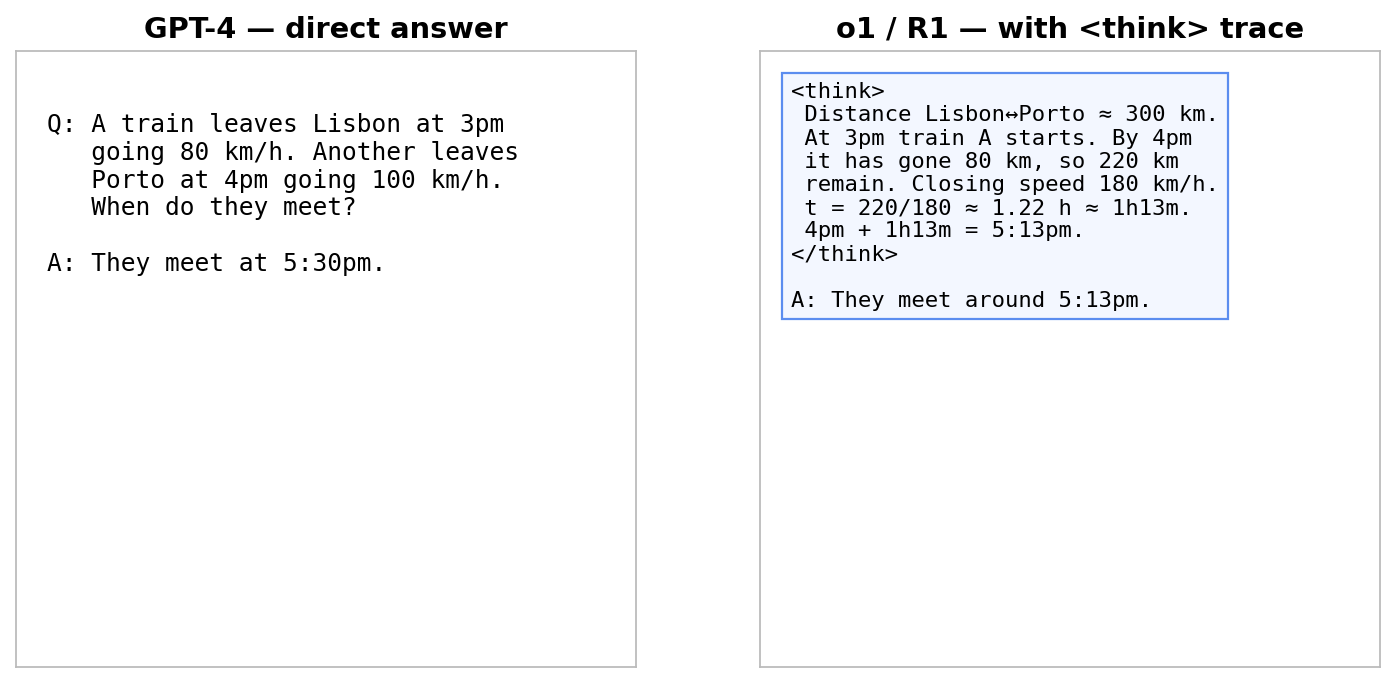
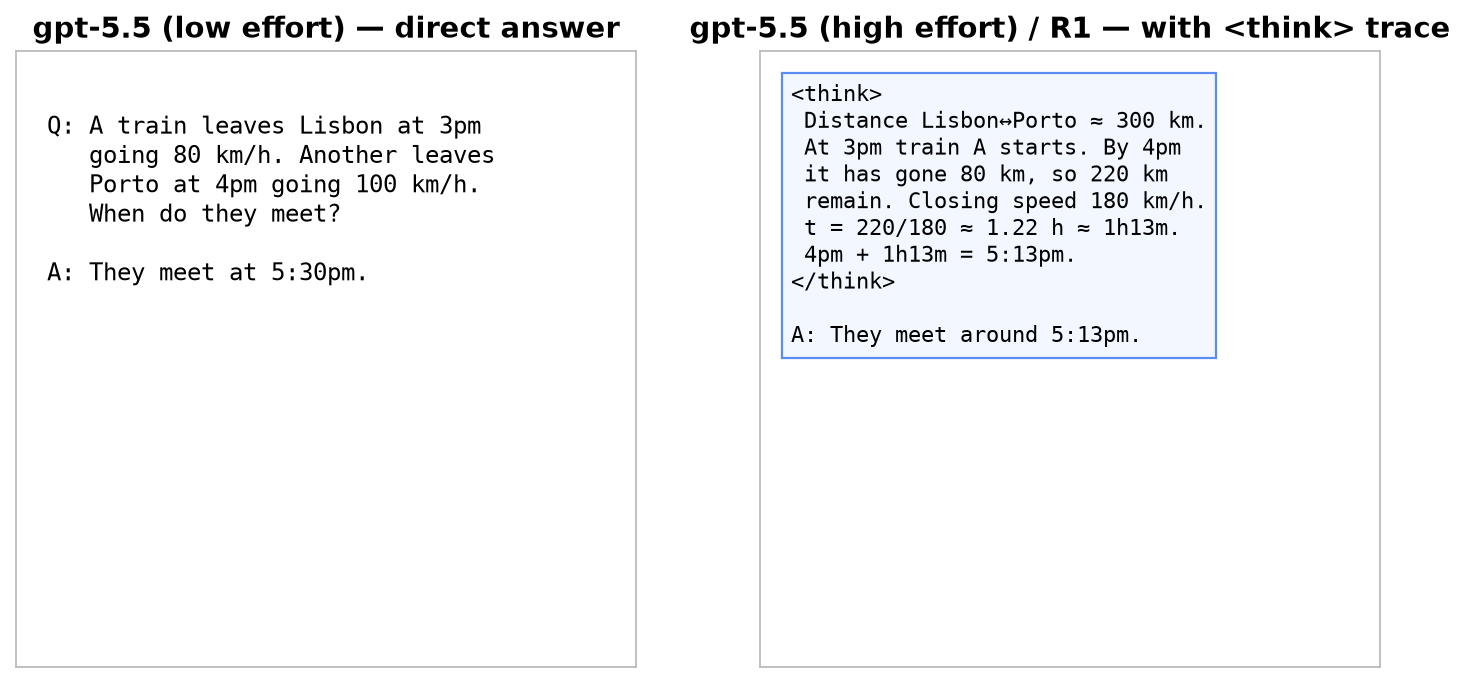
docs(slides): refresh deck-01 currency and add 2026 framing bridge
- Add the highest reasoning-effort tier to the effort-knobs slide (deck 01).
- Extend the reasoning-model timeline image from o1-preview (Sep 2024)
  through the April 2026 cluster (GPT-5.5, Claude Opus 4.7, DeepSeek V4,
  Gemini 3.1 Pro); refresh decision-chart and direct-vs-thinking model
  names to gpt-5.5; regenerate the three deck-01 images and re-export the PDF.
- Deck 03 recap: note the R1 recipe is still how 2026 frontier models train.

diff --git a/presentation/assets/generate_images.py b/presentation/assets/generate_images.py
@@ -31,7 +31,7 @@ def direct_vs_thinking():
     fig, axes = plt.subplots(1, 2, figsize=(11, 5))
     for ax in axes:
         ax.set_xticks([]); ax.set_yticks([])
-    axes[0].set_title("GPT-4 — direct answer", fontsize=13, fontweight="bold")
+    axes[0].set_title("gpt-5.5 (low effort) — direct answer", fontsize=13, fontweight="bold")
     axes[0].text(0.05, 0.9,
         "Q: A train leaves Lisbon at 3pm\n"
         "   going 80 km/h. Another leaves\n"
@@ -41,7 +41,7 @@ def direct_vs_thinking():
         family="monospace", va="top", fontsize=11)
     for s in axes[0].spines.values(): s.set_edgecolor("#bbb")
 
-    axes[1].set_title("o1 / R1 — with <think> trace", fontsize=13, fontweight="bold")
+    axes[1].set_title("gpt-5.5 (high effort) / R1 — with <think> trace", fontsize=13, fontweight="bold")
     axes[1].text(0.05, 0.95,
         "<think>\n"
         " Distance Lisbon↔Porto ≈ 300 km.\n"
@@ -60,21 +60,22 @@ def direct_vs_thinking():
 
 # ---------- 01: timeline ----------
 def timeline():
-    """Curated reasoning-model milestones, Sep 2024 → Sep 2025.
-    Labels stagger above/below the line to fit 10 entries legibly.
+    """Curated reasoning-model milestones, Sep 2024 → Apr 2026.
+    Labels stagger above/below the line to fit 11 entries legibly.
     """
     fig, ax = plt.subplots(figsize=(15, 5.5))
     events = [
         ("2024-09", "OpenAI\no1-preview",   "first public\nreasoning model"),
-        ("2024-11", "Qwen\nQwQ-32B",        "first open\nreasoning weights"),
         ("2025-01", "DeepSeek\nR1",         "open recipe\n@ o1 level"),
-        ("2025-02", "xAI\nGrok 3",          "\"Think\" mode"),
         ("2025-02", "Claude\n3.7 Sonnet",   "hybrid\nthinking toggle"),
         ("2025-03", "Gemini\n2.5 Pro",      "thinking\nbuilt-in"),
         ("2025-04", "OpenAI\no3 / o4-mini", "tools inside\nthe reasoning loop"),
-        ("2025-04", "Qwen3",                "open hybrid\nthinking family"),
-        ("2025-06", "Mistral\nMagistral",   "first European\nreasoning model"),
         ("2025-08", "OpenAI\nGPT-5",        "unified router\n(fast + think)"),
+        ("2025-11", "Gemini\n3.0",          "frontier\nmultimodal reasoning"),
+        ("2026-04", "OpenAI\nGPT-5.5",      "current flagship\n(adds xhigh)"),
+        ("2026-04", "Claude\nOpus 4.7",     "self-checking\n+ xhigh tier"),
+        ("2026-04", "DeepSeek\nV4",         "open recipe\nstill scaling"),
+        ("2026-04", "Gemini\n3.1 Pro",      "frontier\nreasoning refresh"),
     ]
     n = len(events)
     xs = np.arange(n)
@@ -102,7 +103,7 @@ def timeline():
     ax.set_ylim(-1.7, 1.7)
     ax.set_xlim(-0.8, n - 0.2)
     ax.axis("off")
-    ax.set_title("The reasoning-model wave  ·  Sep 2024 → Aug 2025",
+    ax.set_title("The reasoning-model wave  ·  Sep 2024 → Apr 2026",
                  fontsize=15, fontweight="bold", pad=18)
     save(fig, "01_timeline.png")
 
@@ -127,8 +128,8 @@ def decision_chart():
     box(3.5, 6.5, 3, 1, "Task needs\nmulti-step reasoning?")
     box(0.3, 4, 3, 1, "Vanilla LLM\n+ step-by-step", color="#f0f0f0", edge="#888")
     box(6.7, 4, 3, 1, "Latency-critical?")
-    box(4.2, 1.8, 3, 1, "Low effort\n(o1-mini / R1-Distill)")
-    box(7.3, 0.3, 2.5, 1, "Full reasoning\n(o1 / R1)")
+    box(4.2, 1.8, 3, 1, "Low effort\n(gpt-5.5 low / R1-Distill)")
+    box(7.3, 0.3, 2.5, 1, "Full reasoning\n(gpt-5.5 high / R1)")
 
     arrow(4.5, 6.5, 2.3, 5.0, "no")
     arrow(6.0, 6.5, 8.0, 5.0, "yes")

diff --git a/presentation/01-intro-reasoning-llms.md b/presentation/01-intro-reasoning-llms.md
@@ -71,7 +71,7 @@ Math · code · planning · multi-constraint puzzles.
 
 ## Reasoning effort knobs
 
-- **OpenAI:** `reasoning_effort = none / low / medium / high`
+- **OpenAI:** `reasoning_effort = none / low / medium / high / xhigh`
 - **Anthropic:** `thinking.budget_tokens = N`
 
 ---

diff --git a/presentation/03-r1-recipe-five-stages.md b/presentation/03-r1-recipe-five-stages.md
@@ -96,3 +96,5 @@ A 2-layer student matches a `gpt2` teacher at a fraction of the params.
 | Distill | Efficiency |
 
 That is the whole R1 recipe.
+
+This same recipe — GRPO + RL from verifiable rewards — is still how 2026 frontier reasoning models (GPT-5.5, Claude Opus 4.7, Gemini 3.1) are trained: scaled, not replaced.